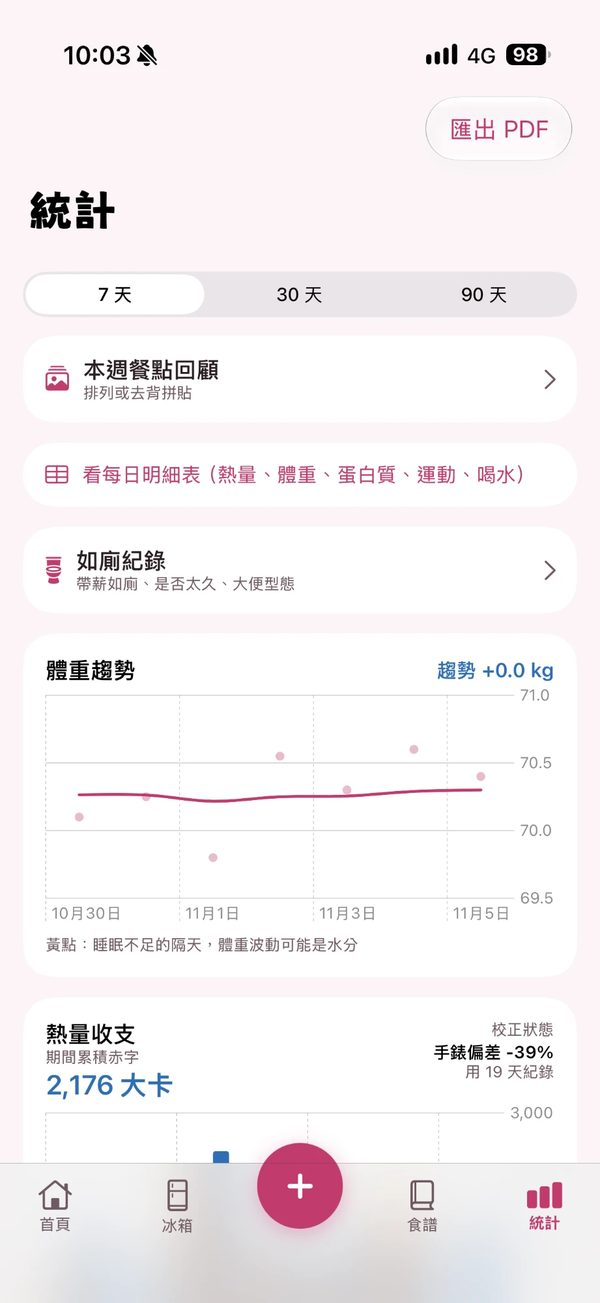
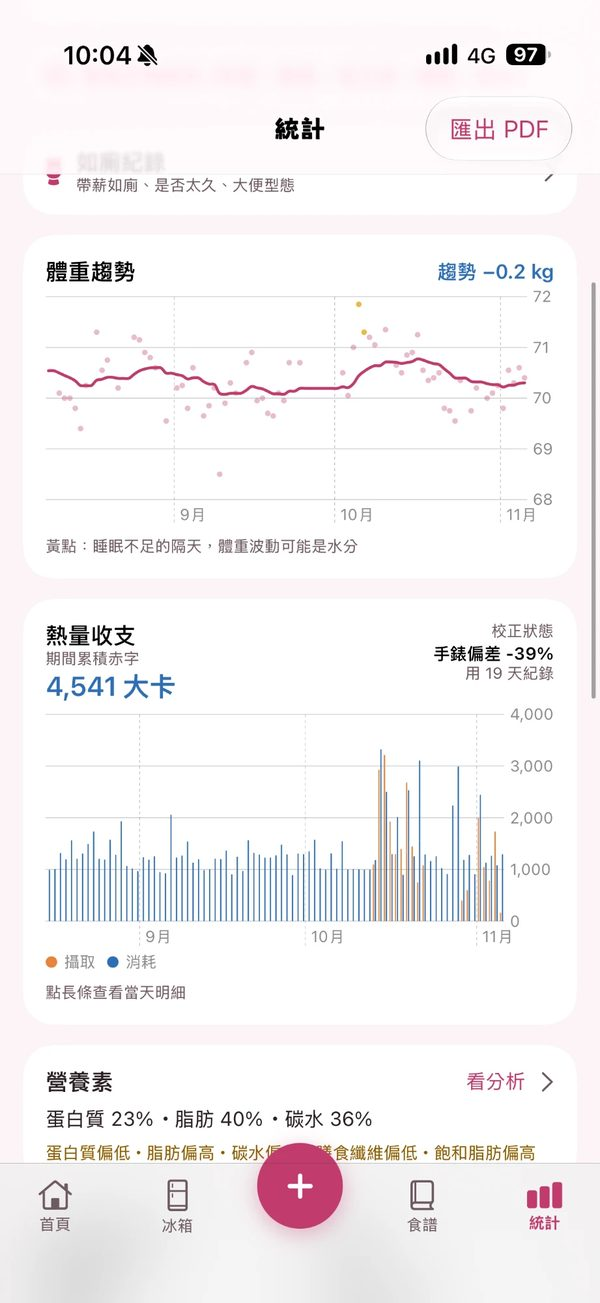
冰冰蹦: add nutrition analysis, use 90-day stats screenshot
Claude-Session: https://claude.ai/code/session_01GXYXpKyzpdPHtZKFa2XZ2q

diff --git a/vibe/projects.js b/vibe/projects.js
@@ -57,7 +57,8 @@ window.VIBE_PROJECTS = [
       { src: "recipes.jpg", caption: "依冰箱食材搜尋愛料理食譜，套用營養師給的飲食規則" },
       { src: "wheel.jpg", caption: "不知道吃什麼：從冰箱湊得出來的自己的料理裡轉盤抽一道" },
       { src: "weekly.jpg", caption: "每週回顧：把這週拍的餐點自動去背，拼成一張「這週吃了什麼」" },
-      { src: "stats.jpg", caption: "統計：體重趨勢、熱量收支，並用實際體重回推校正手錶的消耗" }
+      { src: "nutrition.jpg", caption: "營養素分析：對照營養師的目標，一眼看出蛋白質偏低、脂肪偏高" },
+      { src: "stats.jpg", caption: "90 天統計：體重趨勢與熱量收支，並用實際體重回推校正手錶的消耗" }
     ],
     links: []
   },
